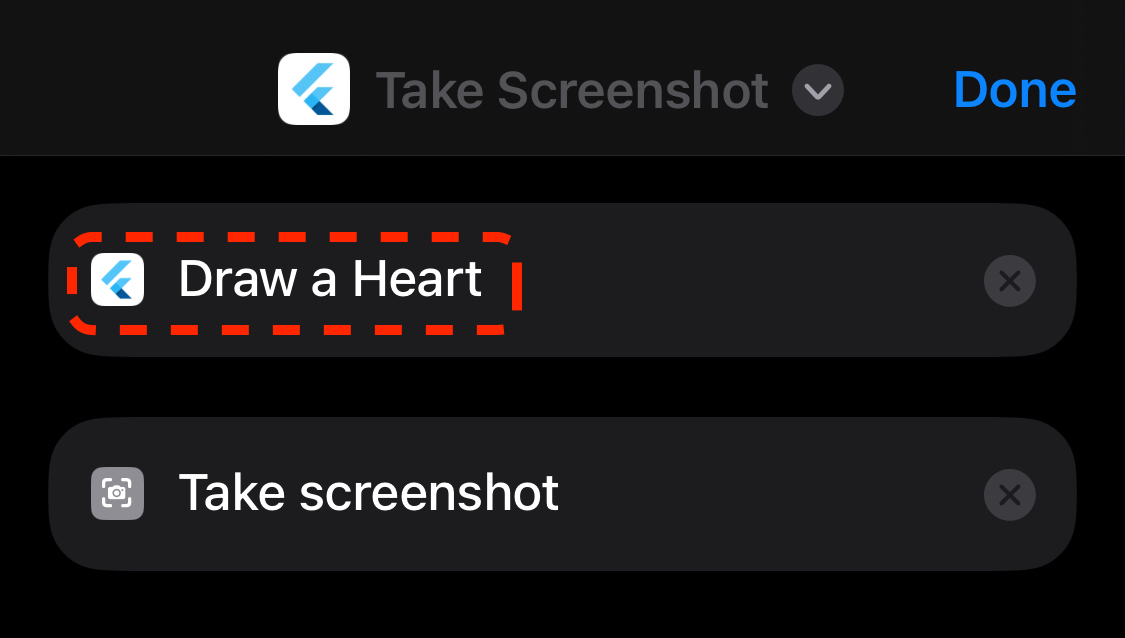
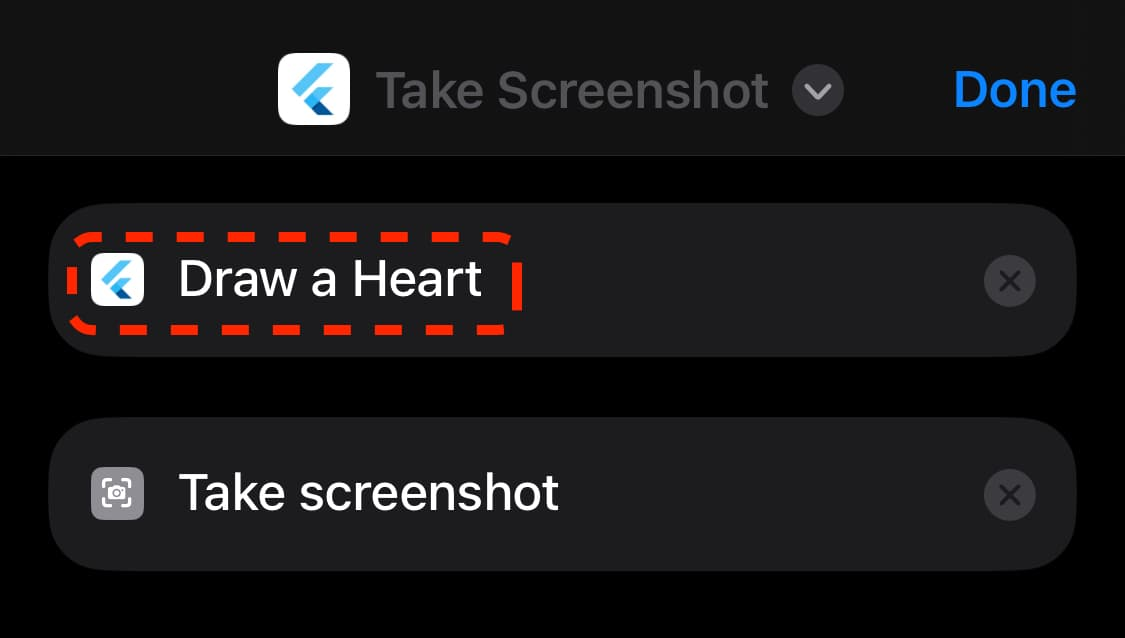
chore: optimize image assetss

diff --git a/README.md b/README.md
@@ -40,7 +40,7 @@ Will let your app to be automated via Shortcuts workflow.
 
 - Open the iOS project in Xcode
 
-<img src="https://raw.githubusercontent.com/monterail/intelligence/main/doc/assets/recipe1/open_in_xcode.png" alt="Open in Xcode" width="60%" />
+<img src="https://raw.githubusercontent.com/monterail/intelligence/main/doc/assets/recipe1/open_in_xcode.jpg" alt="Open in Xcode" width="60%" />
 
 - Add a new Swift file and paste:
 
@@ -235,7 +235,7 @@ await IntelligencePlugin().populate(const [
 
 Result:
 
-<img src="https://raw.githubusercontent.com/monterail/intelligence/main/doc/assets/recipe2/query_siri.png" alt="Siri's 'Draw a circle in Intelligence' query visualisation" width="45%" align="left" />
-<img src="https://raw.githubusercontent.com/monterail/intelligence/main/doc/assets/recipe2/query_result.png" alt="Siri's action of opening the defined App Entity with the 'circle' entity as a parameter" width="45%" align="left" />
+<img src="https://raw.githubusercontent.com/monterail/intelligence/main/doc/assets/recipe2/query_siri.jpg" alt="Siri's 'Draw a circle in Intelligence' query visualisation" width="45%" align="left" />
+<img src="https://raw.githubusercontent.com/monterail/intelligence/main/doc/assets/recipe2/query_result.jpg" alt="Siri's action of opening the defined App Entity with the 'circle' entity as a parameter" width="45%" align="left" />
 
 </details>

diff --git a/example/README.md b/example/README.md
@@ -13,5 +13,5 @@ Run with:
 flutter run
 ```
 
-<img src="https://raw.githubusercontent.com/monterail/intelligence/main/doc/assets/recipe2/query_siri.png" alt="Siri's 'Draw a circle in Intelligence' query visualisation" width="45%" align="left" />
-<img src="https://raw.githubusercontent.com/monterail/intelligence/main/doc/assets/recipe2/query_result.png" alt="Siri's action of opening the defined App Entity with the 'circle' entity as a parameter" width="45%" align="left" />
+<img src="https://raw.githubusercontent.com/monterail/intelligence/main/doc/assets/recipe2/query_siri.jpg" alt="Siri's 'Draw a circle in Intelligence' query visualisation" width="45%" align="left" />
+<img src="https://raw.githubusercontent.com/monterail/intelligence/main/doc/assets/recipe2/query_result.jpg" alt="Siri's action of opening the defined App Entity with the 'circle' entity as a parameter" width="45%" align="left" />
